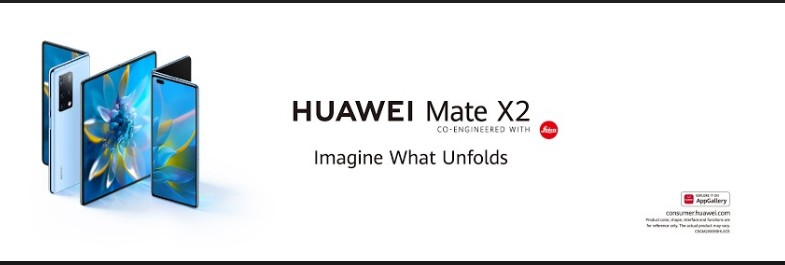
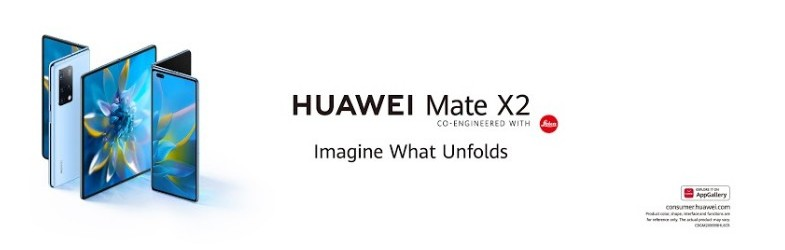
fixing again sizes

diff --git a/css/style.css b/css/style.css
@@ -101,8 +101,25 @@ aside {
   flex-direction: row;
   justify-content: space-between;
   background-color: rgb(37, 32, 32);
-  border: 2px red dashed;
 }
+/* round logo-button-and title subscribed button */
+.logo-button-andstuff {
+  display: flex;
+  align-items: center;
+  flex-direction: row;
+  display: flex;
+  justify-content: space-around;
+  width: 100vw;
+}
+.logo-button-andstuff input {
+  border: 0.5rem rgb(82, 72, 72) solid;
+  color: rgb(190, 190, 190);
+  background-color: rgb(82, 72, 72);
+}
+.logo-button-andstuff i {
+  padding: 1rem;
+}
+
 /* home, videos, playlists menu etc */
 
 .top-menu a {
@@ -126,10 +143,7 @@ a:hover {
   background-color: lightgray;
   transform: scale(2);
 }
-/*  Display: flex 
-Flex-direction: row | row-reverse | column | column-reverse
-align-self: flex-start | flex-end | center | baseline | stretch
-justify-content: start |  center | space-between | space-around | space-evenly   */
+
 /*  Main   */
 
 .main-container {
@@ -159,18 +173,15 @@ justify-content: start |  center | space-between | space-around | space-evenly  
 /* for the bigg banner and the small videos  */
 .bigimage {
   width: 100vw;
-  color: aliceblue;
-  margin-right: 30rem;
-}
-/* round logo-button-and title subscribed button */
-.logo-button-andstuff {
   display: flex;
   align-items: center;
-  flex-direction: row;
-  display: flex;
   justify-content: center;
-  width: 100vw;
+  background-color: white;
 }
+.bigimage img {
+  width: 40rem;
+}
+
 .herologo {
   width: 15rem;
   display: flex;
@@ -184,7 +195,7 @@ justify-content: start |  center | space-between | space-around | space-evenly  
   border-radius: 50%;
 }
 
-/* upload sort by etc */
+/* for the buttons, upload sort by etc */
 .vidoptions {
   width: 100vw;
   display: flex;

diff --git a/index.html b/index.html
@@ -120,8 +120,8 @@
       </div></aside>
     
       <div class="main">
-          <div>
-              <img class="bigimage" src="./img/herosectionimg.jpg" alt="photo Werbung"> 
+          <div class="bigimage" >
+              <img src="./img/herosectionimg.jpg" alt="photo Werbung"> 
           </div>
           <div  class="logo-button-andstuff">
             <div class="herologo">
